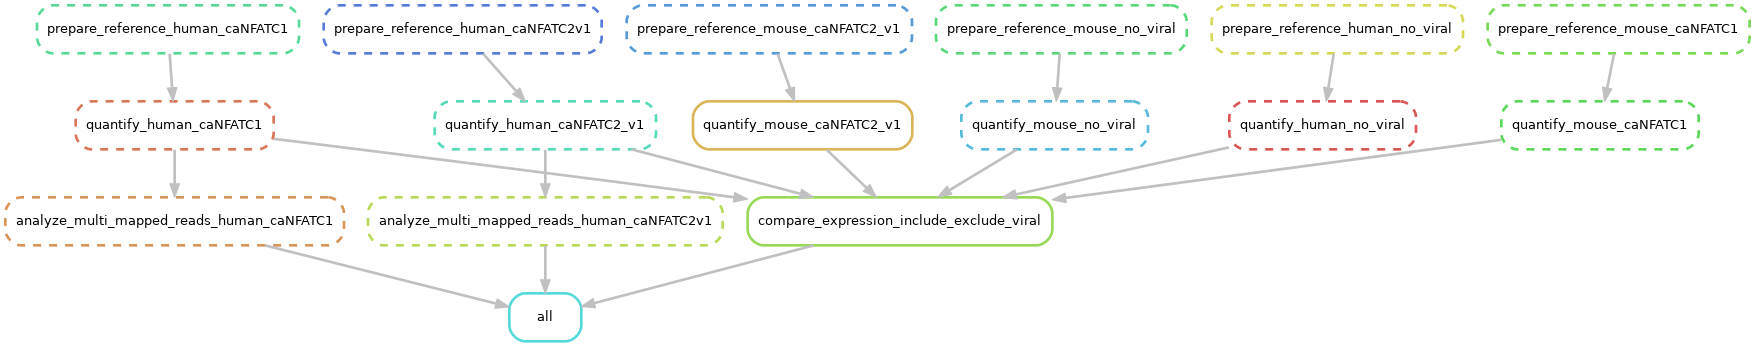
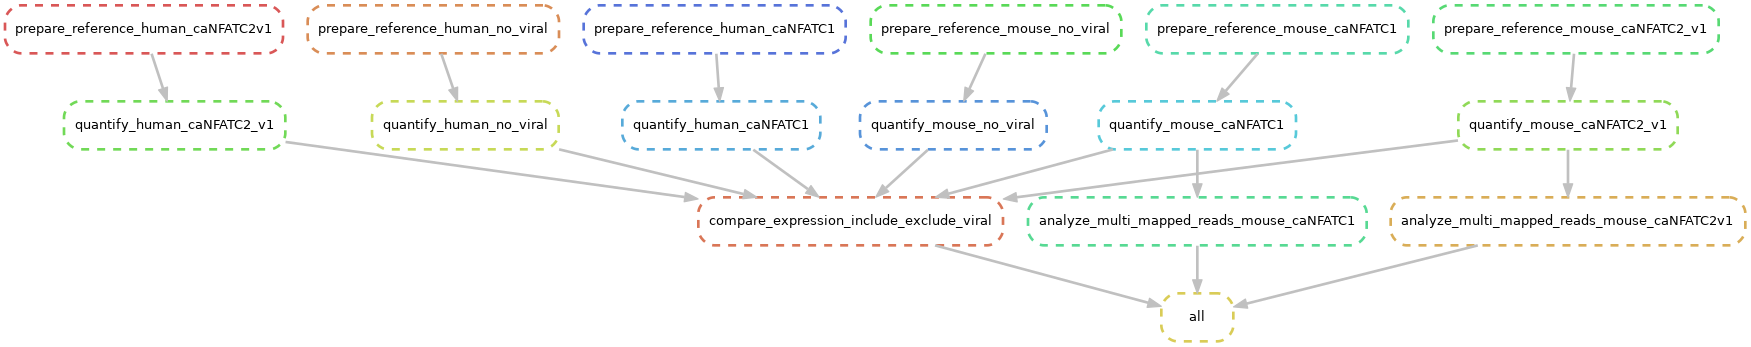
Updated DAG and README

diff --git a/plot_endo_expression.py b/plot_endo_expression.py
@@ -10,11 +10,14 @@ import sys
 import json
 from os.path import join
 import pandas as pd
+import sys
 
 def main():
+    data_dir = sys.argv[1]
+    out_f = sys.argv[2]
+
     with open('config.json', 'r') as f:
         config = json.load(f)
-
     human_endo_genes = [
         'human_NFATC1',
         'human_NFATC2'
@@ -23,13 +26,12 @@ def main():
         'mouse_NFATC1',
         'mouse_NFATC2'
     ]
-    human_canfatc1_dir = '/scratch/mnbernstein/attie_collab/hg19_alignment/caNFATC1/quantification' #args[1]
-    human_canfatc2_dir = '/scratch/mnbernstein/attie_collab/hg19_alignment/caNFATC2_v1/quantification'
-    human_no_viral_dir = '/scratch/mnbernstein/attie_collab/hg19_alignment/no_viral/quantification' #args[2]
-    mouse_canfatc1_dir = '/scratch/mnbernstein/attie_collab/hg19_alignment/mouse_caNFATC1/quantification' #args[1]
-    mouse_canfatc2_dir = '/scratch/mnbernstein/attie_collab/hg19_alignment/mouse_caNFATC2_v1/quantification'
-    mouse_no_viral_dir = '/scratch/mnbernstein/attie_collab/hg19_alignment/mouse_no_viral/quantification' #args[2]
-    out_dir = '.'
+    human_canfatc1_dir = join(data_dir, 'caNFATC1/quantification')
+    human_canfatc2_dir = join(data_dir, 'caNFATC2_v1/quantification')
+    human_no_viral_dir = join(data_dir, 'no_viral/quantification')
+    mouse_canfatc1_dir = join(data_dir, 'mouse_caNFATC1/quantification')
+    mouse_canfatc2_dir = join(data_dir, 'mouse_caNFATC2_v1/quantification')
+    mouse_no_viral_dir = join(data_dir, 'mouse_no_viral/quantification')
 
     human_canfatc1_df = _gather_results(
         human_endo_genes, 
@@ -53,6 +55,14 @@ def main():
         mouse_canfatc1_dir,
         mouse_no_viral_dir,
         config['mouse_caNFATC1_prefixes'],
+        config['transcript_metadata']
+    )
+    mouse_canfatc2_df = _gather_results(
+        mouse_endo_genes,
+        'caNFATC2_v1',
+        mouse_canfatc2_dir,
+        mouse_no_viral_dir,
+        config['mouse_caNFATC2_prefixes'],
         config['transcript_metadata']
     )
 
@@ -95,11 +105,21 @@ def main():
     axarr[1][0].set_title('Mouse caNFATC1-treated')
     axarr[1][0].get_legend().remove()
 
-    #axarr[0][0].grid(b=True, which='minor', axis='y')
+    sns.boxplot(
+        x="Gene",
+        y="TPM",
+        hue="Reference",
+        palette=["m", "g"],
+        ax=axarr[1][1],
+        data=mouse_canfatc2_df
+    )
+    axarr[1][1].set_yscale('log')
+    axarr[1][1].set_title('Mouse caNFATC2-treated')
+    axarr[1][1].get_legend().remove()
 
     plt.tight_layout()
     fig.savefig(
-        join(out_dir, 'include_viral_vs_no_include_viral.png'),
+        out_f,
         format='png',
         dpi=150
     )

diff --git a/README.md b/README.md
@@ -1,2 +1,4 @@
-Workflow:
+I used [Snakemake](https://academic.oup.com/bioinformatics/article/28/19/2520/290322) to coordinate all of the building of the references and running RSEM. The workflow is depicted in the following graph:
+
 ![screenshot](https://github.com/mbernste/nfat-multi-map-reads-analysis/blob/master/dag.png)
+
